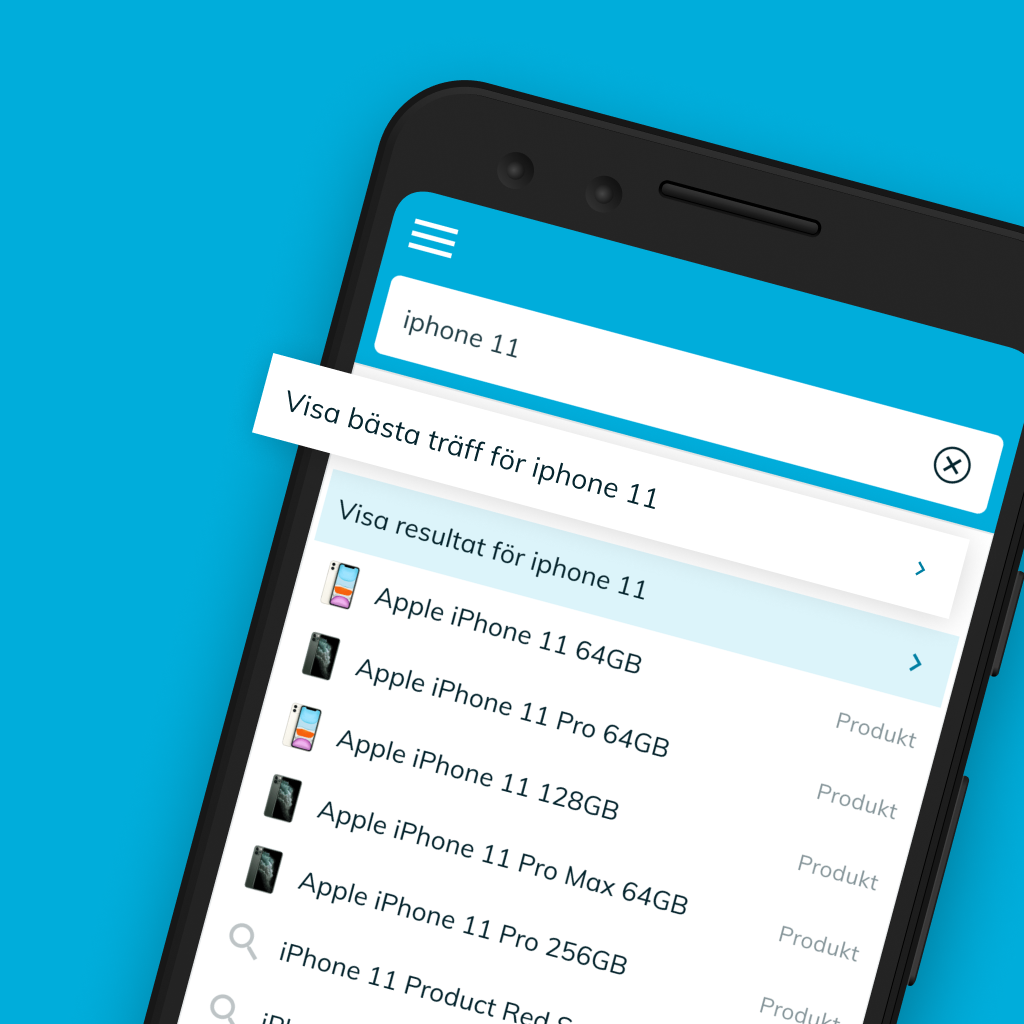
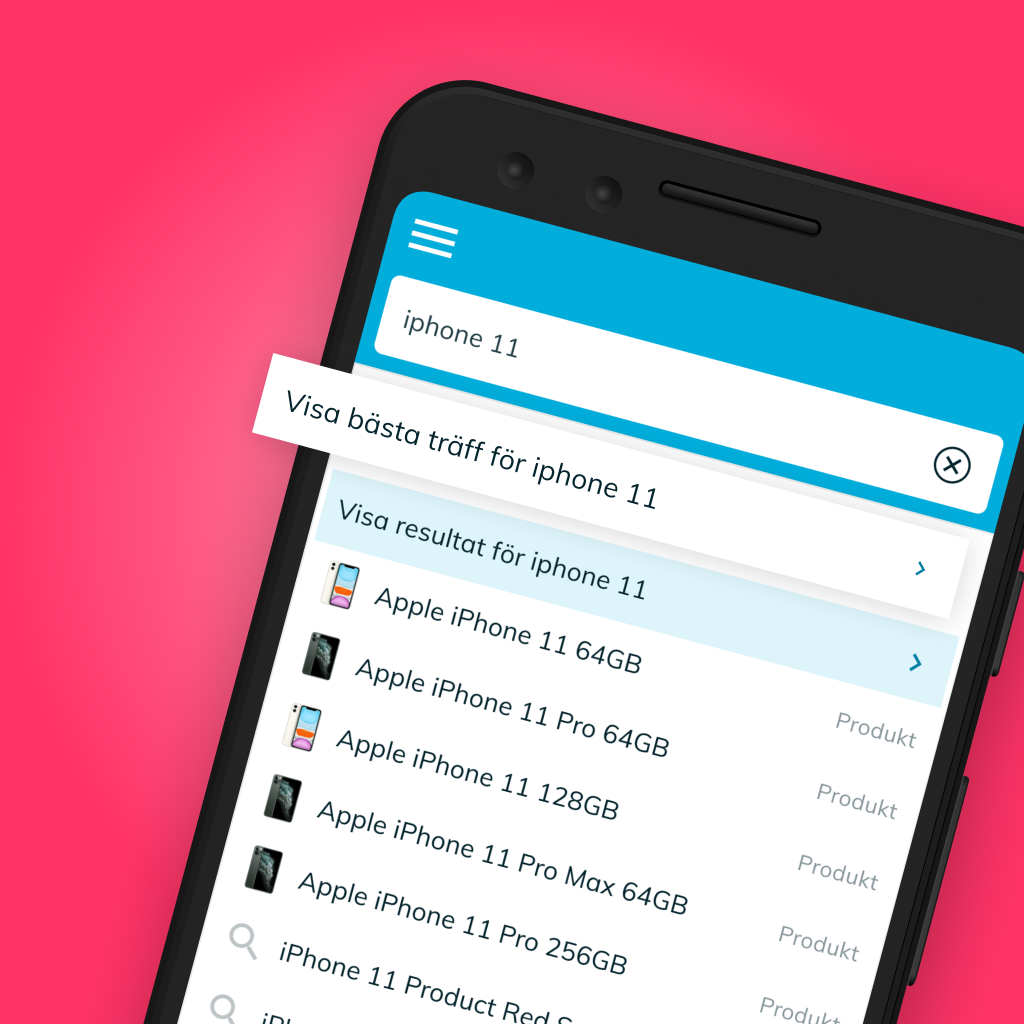
not sure why this is acting up but in worst case revert

diff --git a/src/data/CASE_9.js b/src/data/CASE_9.js
@@ -11,11 +11,8 @@ import { CASE_STATUS } from "./dictionaries/CASE_STATUS";
 import { CASE_TYPES } from "./dictionaries/CASE_TYPES";
 import Title from "../Components/Shared/Title";
 
-/* TODO: Final result looks like shit for desktop products (Perhaps use the Fitness24Seven solution) */
-/* TODO: cover fgImage is missing mobile image URL */
-
 const SETTINGS = {
-  BG_COLOR: "#00ADDB",
+  BG_COLOR: "#FF3366",
   URL: "/cases/9",
   MEDIA_BASE_URL: "assets/case-9",
   KEY_FIGURES: {
@@ -38,7 +35,7 @@ export const CASE_9 = {
   caseUrl: SETTINGS.URL,
   thumbnail: {
     overline: "Price Comparison Service",
-    title: "Improving search experience",
+    title: "Finding the right product",
     text: <>Genarating millions without moving a pixel</>,
     imageUrl: `${SETTINGS.MEDIA_BASE_URL}/thumbnail.png`,
     imageAlt: "thumbnail",
@@ -53,7 +50,12 @@ export const CASE_9 = {
             bgColor: SETTINGS.BG_COLOR,
             caption: {
               overline: "Price Comparison Service",
-              title: "Improving search experience",
+              title: (
+                <>
+                  Finding the
+                  <br /> right product
+                </>
+              ),
               text: (
                 <Paragraph xxl>
                   Or, how to make millions of without moving a PX
@@ -64,9 +66,8 @@ export const CASE_9 = {
               imageUrl: `${SETTINGS.MEDIA_BASE_URL}/cover.png`,
             },
             highlights: [
-              SETTINGS.KEY_FIGURES.CASE_TYPE,
               SETTINGS.KEY_FIGURES.CASE_YEAR,
-              SETTINGS.KEY_FIGURES.CASE_DURATION,
+              SETTINGS.KEY_FIGURES.CASE_TYPE,
               SETTINGS.KEY_FIGURES.CASE_PLATFORMS,
             ],
           },

diff --git a/src/TODO.md b/src/TODO.md
@@ -11,7 +11,7 @@ ListOfOmageWithTitleAndText -> add inView animation to images.
 
 CONTENT:
 case-11-> Add whitespace before results section.
-case-9 -> change to the prisjakt red instead.
+case-9 -> mobile cover image is missing
 case-7 -> Add pictures of the report?
 case-6 -> Go through and rewrite
 case-8 -> Go through and rewrite
